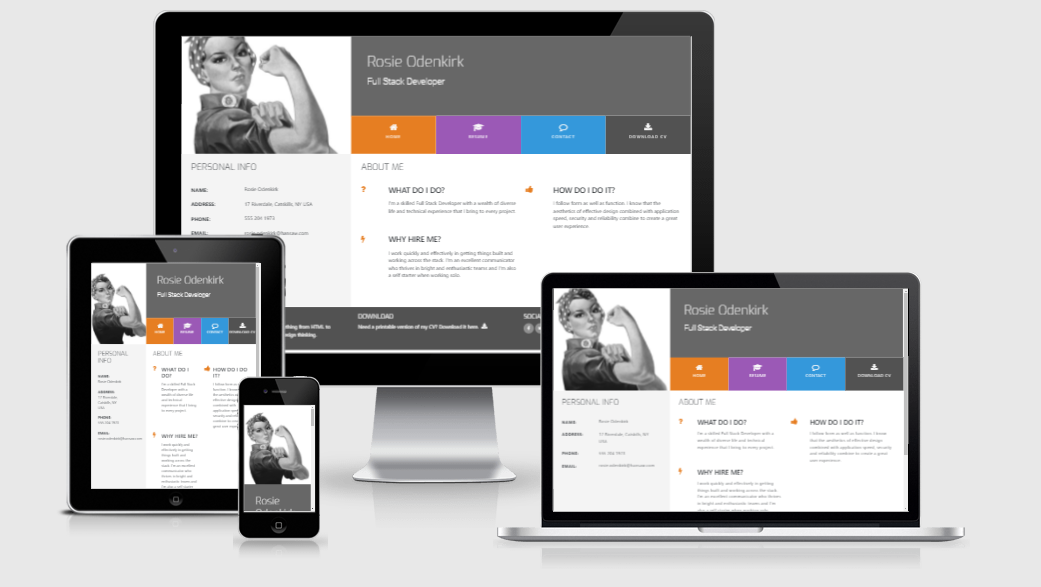
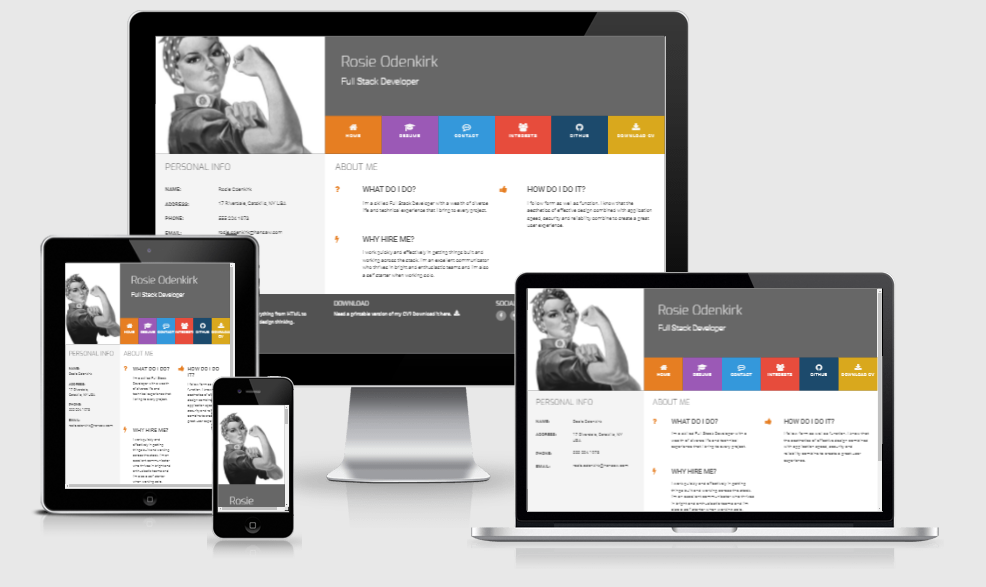
docs(readme):add a shot description about the project

diff --git a/README.md b/README.md
@@ -16,16 +16,24 @@ CONTACT PAGE
 
  ![contact page Am I responsive](/assets/images/resume-contact.png)
 
+INTERESTS PAGE
+ ![interests page Am I responsive](/assets/images/resume-interests.png)
+
+GITHUB
+ ![github page Am I responsive](/assets/images/resume-github.png)
+
+
 ### Overview
-- The second website which I have made on the Code Institute course. It was a walkthrough miniproject which contain two parts. 
-    - First part is a culmination of material introduced on the User Centric Frondend Development module including HTML, CSS, Bootstrap 4. 
-    - The second part is .....
-- By building the Resume website I gained a better understanding of how to use HTML and CSS and also Bootstrap 4.
+- The second project which I have made during the Code Institute course. It was a walkthrough miniproject that contained two parts. 
+    - First part was a culmination of material introduced on the User Centric Frondend Development module including HTML, CSS, Bootstrap 4. 
+    - The second part was a culmination of material introduced on Interactive Frontend Development using Java Script and jQuery to manipulate the DOM and to make Ajax calls to the Google Maps, GitHub and email service API's. Two pages: Interests and Github were added to the previously created project and also a custom map using the Google Maps API, link an email service to receive an email, when somebody fills out the correct form using EmailJS.
+- By building the Resume website I gained a better understanding of how to the Front End Development works.
 
 ### The purpose of the website
-- The aim of this project was to use the tools like HTML, CSS and Bootstrap 4 to create a Resume website for Rosie Odenkirk a Full Stack Web Developer. 
-- The website contains three separate pages, a home page, a resume page, a contact page, and also a pdf format CV that can downloaded. 
+- The aim of this project was to use the tools like HTML, CSS, Bootstrap 4, Java Script, jQuery, Google Maps, EmailJS to create a full responsive Resume website for Rosie Odenkirk a Full Stack Web Developer where the user can send Email, find other users Github Repository, Read the Map localisation where Rosie was attended on the conferences. 
+- The website contains five separate pages, a Home page, a Resume page, a Contact page, Interests page, GitHub Page and also a pdf format CV that can downloaded. 
 - The **Home** page has "Personal Info" and an "About me" section. The "About me" section provides information about Rosie. 
 - The **Resume** page includes "Work History" using time-line item bullet points and "My Skills" progress bar sections which shows the level of advancement of Rosie's programming languages. 
-- The **Contact** page contains a form to fill in, encouraging to cooperation.
+- The **Contact** page contains a form to fill in, encouraging to cooperation which is wired up with service EmailJS and the user is able to send an email to Rosie and she is able to receive it on her email.
+- The **Interests** page contains Rosie's Group of Interests and societes and also a google map which displays locations of Rosie's conferences and meetup places.
 - The **Download CV** link provide Rosie's CV in PDF format for employers or clients who may prefer that particular, more traditional format.
